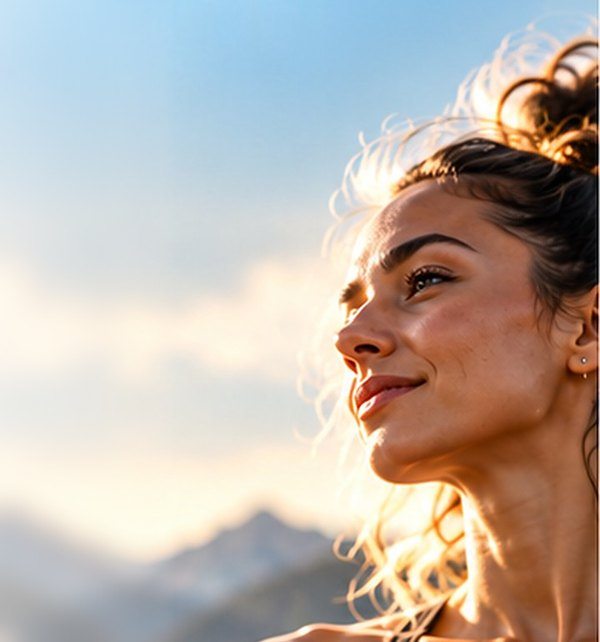
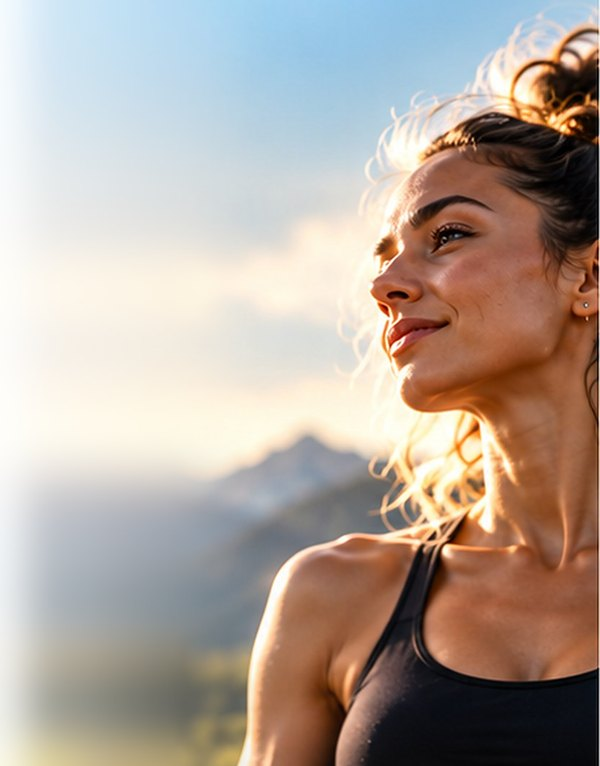
Welcome 2: follow the design — head-to-waist photo, button at its foot
- New crop: the woman head to waist on the right, a soft haze on the left
- Headline in two balanced lines across the top; the line under it and the
  benefits (labels wrapping to two lines) down the left
- Explore the Collection is the wide button, centred at the foot of the
  photo; a client that ignores the height puts it after the list
- Phones: wide buttons narrow their padding so the label stays on one line

Claude-Session: https://claude.ai/code/session_01D9wyYeR5ucDGRSLEYABcrG

diff --git a/lib/email-flows/render.ts b/lib/email-flows/render.ts
@@ -199,6 +199,8 @@ interface Kit {
   coverWash?: { src: string; from: 'left' | 'top'; dark: boolean };
   /** Set by offerBanner: its picture, lightened behind the copy on phones. */
   bannerWash?: string;
+  /** Set by button: a wide button, narrowed on phones so its label stays on one line. */
+  wideButton?: boolean;
   m: (s: string) => string;
   href: (url: string) => string | null;
   img: (url: string) => string | null;
@@ -221,12 +223,13 @@ function button(k: Kit, label: string, url: string, opts: { light?: boolean; urg
   const text = k.m(label);
   if (!href || !text) return '';
   const bg = opts.light ? '#FFFFFF' : opts.urgent ? T.urgent : T.button;
+  if (opts.wide) k.wideButton = true;
   const fg = opts.light ? T.ink : '#FFFFFF';
   return `
     <table role="presentation" cellpadding="0" cellspacing="0" border="0" align="${opts.align ?? 'center'}" style="margin: ${opts.align === 'left' ? '6px 0 4px' : '6px auto 4px'};">
       <tr>
         <td align="center" bgcolor="${bg}" style="border-radius: 8px; background: ${bg};">
-          <a href="${escapeHtml(href)}" style="display: inline-block; padding: ${opts.wide ? '15px 64px' : '14px 34px'}; font-family: ${T.font}; font-size: 12px; font-weight: 700; letter-spacing: 0.14em; text-transform: uppercase; color: ${fg}; text-decoration: none; border-radius: 8px;">${escapeHtml(text)} &nbsp;&rarr;</a>
+          <a href="${escapeHtml(href)}"${opts.wide ? ' class="ef-btn-wide"' : ''} style="display: inline-block; padding: ${opts.wide ? '15px 64px' : '14px 34px'}; font-family: ${T.font}; font-size: 12px; font-weight: 700; letter-spacing: 0.14em; text-transform: uppercase; color: ${fg}; text-decoration: none; border-radius: 8px;">${escapeHtml(text)} &nbsp;&rarr;</a>
         </td>
       </tr>
     </table>`;
@@ -262,11 +265,13 @@ function badges(k: Kit, items: Highlight[], dark = false): string {
 }
 
 /** Vertical benefit list — each icon in a hairline circle, as in the designs. */
-function checklist(k: Kit, items: Highlight[]): string {
+function checklist(k: Kit, items: Highlight[], opts: { width?: number } = {}): string {
   const list = items.map((h) => ({ ...h, label: k.m(h.label) })).filter((h) => h.label);
   if (!list.length) return '';
+  // A set width makes longer labels wrap onto two lines, as in the cover designs.
+  const width = opts.width ? ` width="${opts.width}"` : '';
   return `
-    <table role="presentation" cellpadding="0" cellspacing="0" border="0" style="margin: 0 0 8px;">
+    <table role="presentation" cellpadding="0" cellspacing="0" border="0"${width} style="margin: 0 0 8px;${opts.width ? ` width: ${opts.width}px; max-width: 100%;` : ''}">
       ${list
         .map(
           (h) => `
@@ -278,7 +283,7 @@ function checklist(k: Kit, items: Highlight[]): string {
               </td></tr>
             </table>
           </td>
-          <td valign="middle" style="padding: 6px 0; font-family: ${T.font}; font-size: 12px; font-weight: 700; letter-spacing: 0.08em; text-transform: uppercase; color: ${T.ink};">${escapeHtml(h.label)}</td>
+          <td valign="middle" style="padding: 6px 0; font-family: ${T.font}; font-size: 12px; font-weight: 700; letter-spacing: 0.08em; line-height: 1.35; text-transform: uppercase; color: ${T.ink};">${escapeHtml(h.label)}</td>
         </tr>`,
         )
         .join('')}
@@ -342,7 +347,7 @@ const pad = (inner: string, p = '28px 32px') => (inner.trim() ? `<tr><td style="
  * On phones a media query (in <head>) scales the height with the width, so a
  * tall cover isn't cropped down to a sliver.
  */
-function coverHero(k: Kit, inner: string, opts: { valign?: 'top' | 'bottom'; padding?: string; phoneWash?: 'left' | 'top' } = {}): string {
+function coverHero(k: Kit, inner: string, opts: { valign?: 'top' | 'bottom'; padding?: string; phoneWash?: 'left' | 'top'; fill?: boolean } = {}): string {
   const s = k.step;
   const src = k.img(s.hero_image_url);
   const ratio = s.hero_image_ratio && s.hero_image_ratio > 0 ? s.hero_image_ratio : 0.6;
@@ -356,7 +361,7 @@ function coverHero(k: Kit, inner: string, opts: { valign?: 'top' | 'bottom'; pad
     : `style="background-color: ${fallback}; height: ${h}px;"`;
   return `<tr><td class="ef-cover${opts.phoneWash && src ? ' ef-cover-wash' : ''}" ${bg} bgcolor="${fallback}" height="${h}" valign="${valign}">
     <!--[if gte mso 9]><v:rect xmlns:v="urn:schemas-microsoft-com:vml" fill="true" stroke="false" style="width:600px;height:${h}px;"><v:fill type="frame"${src ? ` src="${escapeHtml(src)}"` : ''} color="${fallback}" /><v:textbox inset="0,0,0,0"><![endif]-->
-    <table role="presentation" width="100%" cellpadding="0" cellspacing="0" border="0">
+    <table role="presentation" width="100%" cellpadding="0" cellspacing="0" border="0"${opts.fill ? ` height="${h}" class="ef-cover-fill" style="height: ${h}px;"` : ''}>
       <tr><td valign="${valign}" style="padding: ${opts.padding ?? '36px 32px'};">${inner}</td></tr>
     </table>
     <!--[if gte mso 9]></v:textbox></v:rect><![endif]-->
@@ -489,20 +494,28 @@ function heroWithHeadline(k: Kit, size = 30): string {
 function educationLayout(k: Kit): string {
   const s = k.step;
   if (overlaid(k)) {
-    // As designed: the headline, the benefits and the button all over the
-    // photo, down its left side, the subject on the right.
+    // As designed: the headline across the top of the photo, the line under
+    // it and the benefits down its left side (the subject on the right), and
+    // the button centred at the foot of the photo.
+    const c = overlayTone(k);
+    const headline = k.m(s.headline);
+    const sub = k.m(s.subheadline);
+    const top = `
+      ${headline ? `<h1 style="font-family: ${T.display}; font-size: 28px; font-weight: 700; line-height: 1.18; color: ${c.heading}; margin: 0 0 14px; max-width: 330px; text-wrap: balance; ${c.shadow}">${escapeHtml(headline)}</h1>` : ''}
+      ${sub ? narrow(`<p style="font-family: ${T.font}; font-size: 15px; line-height: 1.55; color: ${c.body}; margin: 0; ${c.shadow}">${escapeHtml(sub)}</p>`, 270) : ''}
+      <div style="height: 22px; line-height: 22px; font-size: 0;">&nbsp;</div>
+      ${checklist(k, s.highlights, { width: 196 })}
+      ${paragraphs(k.m(s.body), c.body)}`;
     return [
       coverHero(
         k,
-        narrow(
-          overlayHeadline(k, 'left', 30) +
-            `<div style="height: 22px; line-height: 22px; font-size: 0;">&nbsp;</div>` +
-            checklist(k, s.highlights) +
-            paragraphs(k.m(s.body), overlayTone(k).body) +
-            button(k, s.cta_label, s.cta_url, { align: 'left' }),
-          290,
-        ),
-        { padding: '36px 32px 32px', phoneWash: 'left' },
+        // The inner table fills the photo, so the button sits at its foot;
+        // a client that ignores the height puts it straight after the list.
+        `<table role="presentation" width="100%" height="100%" cellpadding="0" cellspacing="0" border="0" style="height: 100%;">
+          <tr><td valign="top">${top}</td></tr>
+          <tr><td valign="bottom" style="padding-top: 18px;">${button(k, s.cta_label, s.cta_url, { wide: true })}</td></tr>
+        </table>`,
+        { padding: '34px 32px 30px', phoneWash: 'left', fill: true },
       ),
       pad(card(k, { imageLeft: true }), '24px 20px 24px'),
     ].join('');
@@ -793,14 +806,15 @@ export function renderFlowEmail(step: FlowStep, ctx: RenderContext): RenderedEma
 <meta name="viewport" content="width=device-width, initial-scale=1" />
 <meta name="x-apple-disable-message-reformatting" />
 <title>${escapeHtml(subject)}</title>
-${k.coverRatio || k.bannerWash ? `<style>
+${k.coverRatio || k.bannerWash || k.wideButton ? `<style>
   /* Phones: the cover keeps its shape instead of being cropped to a strip. */
   @media only screen and (max-width: 620px) {
-    ${k.coverRatio ? `.ef-cover { height: calc((100vw - 22px) * ${k.coverRatio}) !important; }` : ''}${k.coverWash ? `
+    ${k.coverRatio ? `.ef-cover, .ef-cover-fill { height: calc((100vw - 22px) * ${k.coverRatio}) !important; }` : ''}${k.coverWash ? `
     /* The copy runs over the subject at this width: lighten the photo behind it. */
     .ef-cover-wash { background-image: ${washGradient(k.coverWash.from, k.coverWash.dark ? '5,24,43' : '255,255,255')}, url('${escapeHtml(k.coverWash.src)}') !important; }` : ''}${k.bannerWash ? `
     .ef-banner { background-image: ${washGradient('left', '241,246,249')}, url('${escapeHtml(k.bannerWash)}') !important; }
-    .ef-banner-title { font-size: 22px !important; }` : ''}
+    .ef-banner-title { font-size: 22px !important; }` : ''}${k.wideButton ? `
+    .ef-btn-wide { padding: 15px 30px !important; }` : ''}
   }
 </style>` : ''}
 </head>

diff --git a/lib/email-flows/email-flows.test.ts b/lib/email-flows/email-flows.test.ts
@@ -552,7 +552,7 @@ test('an overlay hero carries its text, keeps its shape, and works in Outlook an
   assert.match(cover, />Your cart is waiting\.</);
   assert.match(html, /height="809"/, '600 × 1.3483');
   assert.match(html, /<v:fill type="frame" src="https:\/\/www\.vytabio\.com\/images\/email\/photos\/man-lake\.jpg"/);
-  assert.match(html, /\.ef-cover \{ height: calc\(\(100vw - 22px\) \* 1\.3483\) !important; \}/);
+  assert.match(html, /\.ef-cover, \.ef-cover-fill \{ height: calc\(\(100vw - 22px\) \* 1\.3483\) !important; \}/);
   // The vial strip closes the email, as in the mockup.
   assert.match(html, /man-lake-vial\.jpg/);
 });
@@ -566,6 +566,11 @@ test('the text sits on the photo in welcome 2, 3 and 5, as designed', () => {
   for (const text of ['Modern Wellness Starts with Knowledge', 'Supports Recovery', 'Builds a Stronger Tomorrow', 'Explore the Collection']) {
     assert.ok(two.includes(text), text);
   }
+  // The copy fills the photo so the button sits at its foot, centred and wide.
+  const twoHtml = renderFlowEmail(defaultStep(2), ctx()).html;
+  assert.match(twoHtml, /class="ef-cover-fill" style="height: 766px;"/);
+  assert.match(twoHtml, /class="ef-btn-wide"/);
+  assert.match(twoHtml, /\.ef-btn-wide \{ padding: 15px 30px !important; \}/, 'narrower on phones');
   // Welcome 3: headline over the photo, the badges and body below it.
   const threeHtml = renderFlowEmail(defaultStep(3), ctx()).html;
   const three = coverOf(threeHtml);

diff --git a/lib/email-flows/defaults.ts b/lib/email-flows/defaults.ts
@@ -64,8 +64,8 @@ export const PHOTOS = {
   womanLakeDark: { url: '/images/email/photos/woman-lake-dark.jpg', ratio: 0.8 },
   /** The welcome offer panel: pale mountains behind the copy, the vials at the right. */
   offerCard: { url: '/images/email/photos/offer-card.jpg', ratio: 0.3933 },
-  /** Woman in profile on the right, the left kept clear (and lightened) for copy. */
-  womanPortrait: { url: '/images/email/photos/woman-portrait.jpg', ratio: 1.07 },
+  /** Woman in profile, head to waist, on the right; a soft haze on the left for the copy. */
+  womanPortrait: { url: '/images/email/photos/woman-portrait.jpg', ratio: 1.2767 },
   /** Two vials on the rock under the mountains, the upper left lightened for copy. */
   vialsRock: { url: '/images/email/photos/vials-rock.jpg', ratio: 1.2167 },
   vialsMountains: { url: '/images/email/photos/vials-mountains.jpg', ratio: 1.0367 },

diff --git a/docs/changelog/2026-10-15-email-flows.md b/docs/changelog/2026-10-15-email-flows.md
@@ -215,7 +215,7 @@ stretched cover:
 |---|---|---|
 | `woman-lake-dark` (woman by the lake, left side darkened) | 0.80 | Welcome 1 hero, white title low on the left |
 | `offer-card` (pale mountains, vials at the right) | 0.39 | Welcome 1 offer panel, copy over the left |
-| `woman-portrait` (woman in profile, on the right) | 1.07 | Welcome 2 hero, headline, benefits and button down the left |
+| `woman-portrait` (woman in profile, head to waist, on the right) | 1.28 | Welcome 2 hero: headline, line and benefits down the left, button centred at the foot |
 | `vials-rock` (two vials, mountains behind) | 1.22 | Welcome 3 hero, headline over the mountains |
 | `man-lake-sky` (man by the lake, sky above) | 1.50 | Welcome 5 hero, question, countdown and button over the sky |
 | `man-lake` (man by the lake) | 1.35 | Cart 1 hero, headline over the sky |
@@ -229,8 +229,8 @@ stretched cover:
 
 The welcome crops come from the full-height supplied covers. On
 `woman-portrait` and `vials-rock` the side the copy sits on is lightened
-slightly; on `woman-lake-dark` it is darkened for the white title. `woman-portrait` is widened with soft sky on the
-left so she sits on the right, clear of the copy.
+slightly; on `woman-lake-dark` it is darkened for the white title. `woman-portrait` is widened with soft haze on the
+left, so she sits on the right, head to waist, clear of the copy.
 
 Where the designs set the text over the photo (Welcome 1, 2, 3 and 5,
 Cart 1, Cart 2), it sits over the sky or the clear side of the photo. On
